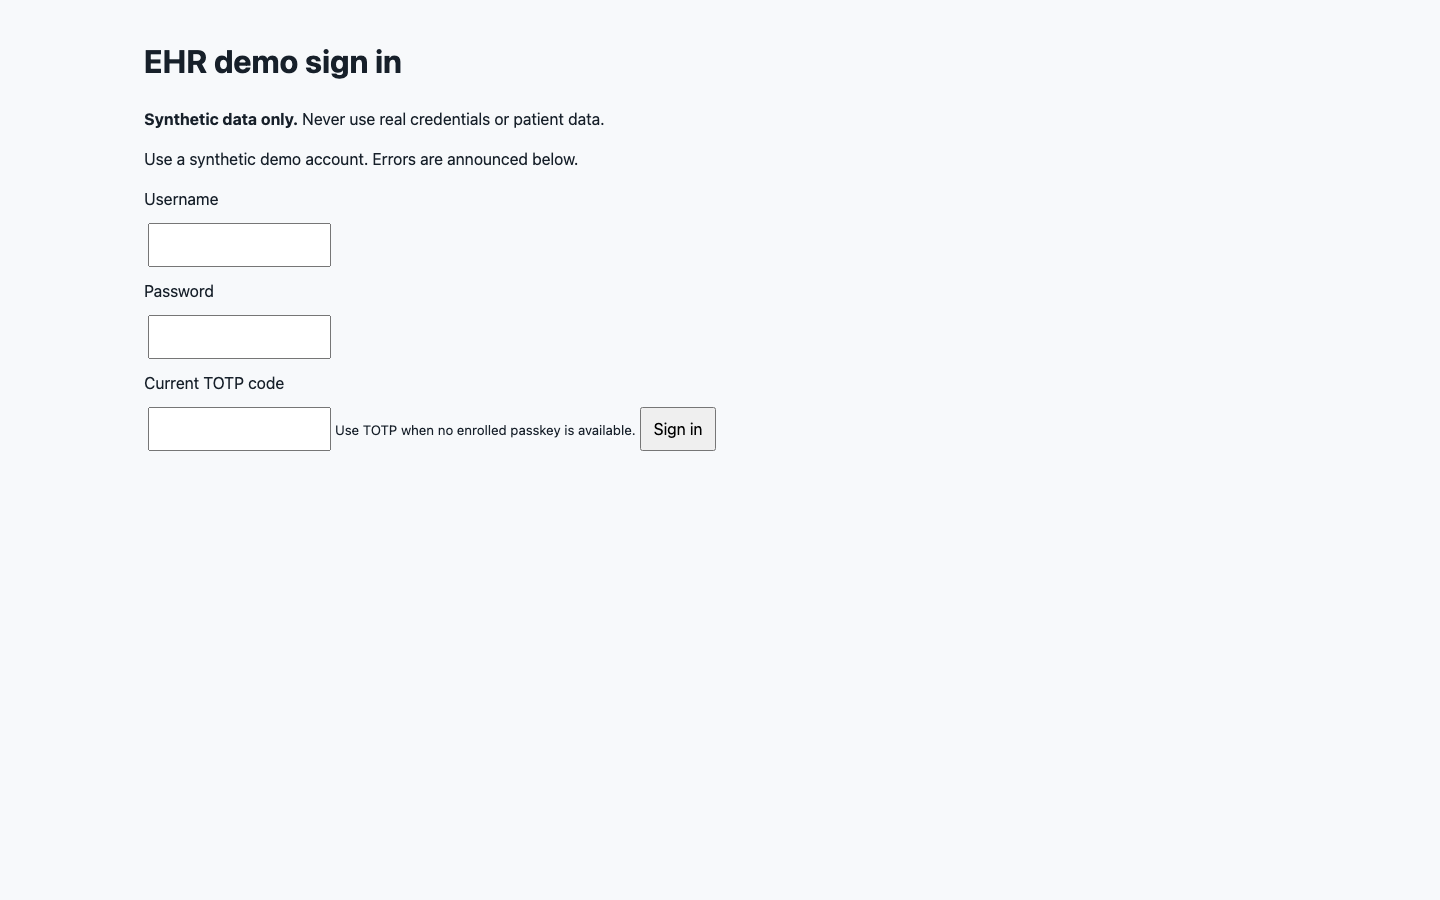
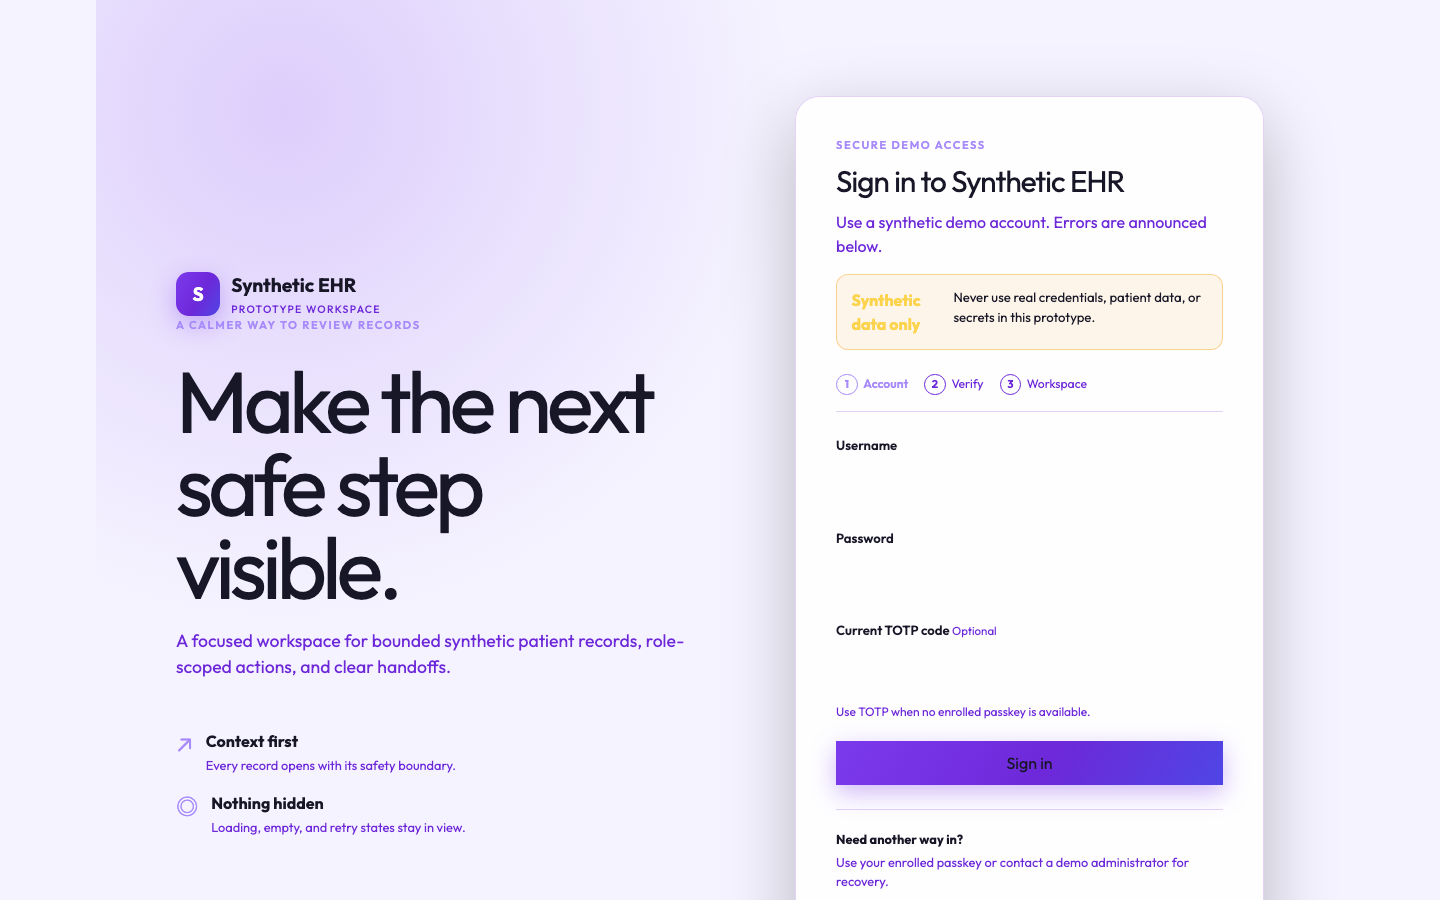
docs: refresh Tailwind UI screenshots

diff --git a/src/ticket06.test.tsx b/src/ticket06.test.tsx
@@ -1,0 +1,101 @@
+// @vitest-environment jsdom
+// type-10042026-Maurice: Ticket06 regression and evidence contracts.
+import { readFileSync } from "node:fs";
+import { resolve } from "node:path";
+import { describe, expect, it } from "vitest";
+import { renderToStaticMarkup } from "react-dom/server";
+import axe from "axe-core";
+import { AppShell, CategoryBarChart, TrendChart } from "./ui";
+import { AdminWorkspace, DeveloperWorkspace } from "./main";
+
+const root = process.cwd();
+const read = (file: string) => readFileSync(resolve(root, file), "utf8");
+const pngSize = (file: string) => {
+  const bytes = readFileSync(resolve(root, file));
+  return { width: bytes.readUInt32BE(16), height: bytes.readUInt32BE(20) };
+};
+const shell = (role: "patient" | "clinician" | "admin" | "developer", route = "/") =>
+  renderToStaticMarkup(<AppShell role={role} username="demo" route={route} onNavigate={() => undefined}><p>Demo workspace</p></AppShell>);
+
+describe("Ticket06 — existing flows, evidence, Compose and static serving", () => {
+  it("test_TC_UI_0046_concurrency_and_rollback_regression", () => {
+    const html = shell("clinician");
+    expect(html).toContain("Synthetic data only");
+    expect(html).toContain('id="main-content"');
+    expect(read("src/workflow.ts")).toContain("roleWorkspacePath");
+  });
+
+  it("test_TC_UI_0047_role_flow_loading_and_error_coverage", async () => {
+    const html = shell("admin", "/admin");
+    expect(html).toContain('aria-label="Workspace navigation"');
+    expect(read("src/main.tsx")).toContain("Loading patient records");
+    expect(read("src/main.tsx")).toContain("Unable to load");
+    for (const role of ["patient", "clinician", "admin", "developer"] as const) {
+      document.body.innerHTML = shell(role);
+      const result = await axe.run(document.body);
+      expect(result.violations.filter((item) => ["serious", "critical"].includes(item.impact ?? ""))).toEqual([]);
+    }
+  });
+
+  it("test_TC_UI_0048_api_retry_does_not_duplicate_rows", () => {
+    const html = renderToStaticMarkup(<AdminWorkspace users={[]} audit={[]} jobs={[]} rules={[]} severityFloor="LOW" error="" onRetry={() => undefined} onCancelJob={() => undefined} onUpdateUser={() => undefined} onCreateUser={() => undefined} />);
+    expect(html.match(/No users loaded\./g)).toHaveLength(1);
+    expect(html.match(/No audit events loaded\./g)).toHaveLength(1);
+    expect(html).toContain('data-ticket="TC-UI-0039 TC-UI-0040 TC-UI-0042 TC-UI-0043 TC-UI-0044 TC-UI-0045"');
+  });
+
+  it("test_TC_UI_0049_theme_does_not_persist_across_reload", () => {
+    const html = shell("patient");
+    expect(html).not.toContain("localStorage");
+    expect(html).not.toContain("sessionStorage");
+    expect(read("src/ui.tsx")).toContain('useState<"dark" | "light">("dark")');
+  });
+
+  it("test_TC_UI_0050_responsive_forms_retain_correction", () => {
+    const styles = read("src/styles.css");
+    expect(styles).toContain("grid-template-columns");
+    expect(styles).toContain("@media (max-width: 42rem)");
+    expect(read("src/main.tsx")).toContain("onChange={(event)");
+  });
+
+  it("test_TC_UI_0051_chart_table_survives_svg_failure", () => {
+    const html = renderToStaticMarkup(<><TrendChart title="Synthetic trend" points={[{ label: "Jan", value: 2 }]} /><CategoryBarChart title="Synthetic categories" items={[{ label: "Open", value: 1 }]} /></>);
+    expect(html).toContain("<table>");
+    expect(html).toContain("Synthetic trend data");
+    expect(html).toContain("Synthetic categories data");
+  });
+
+  it("test_TC_UI_0052_permission_denied_preserves_route", () => {
+    const html = shell("patient", "/admin");
+    expect(html).toContain('aria-current="page"');
+    expect(html).toContain("Workspace");
+    expect(read("src/main.tsx")).toContain("You are not authorized to open the administrator workspace");
+  });
+
+  it("test_TC_UI_0053_screenshot_gallery_has_viewport_metadata", () => {
+    const readme = read("README.md");
+    expect(readme).toContain("1440x900");
+    expect(readme).toContain("390x844");
+    expect(readme).toContain("Synthetic/non-clinical prototype");
+    const links = [...readme.matchAll(/\]\((docs\/screenshots\/[^)]+\.png)\)/g)].map((match) => match[1]);
+    expect(links.length).toBeGreaterThanOrEqual(6);
+    for (const link of links) expect(pngSize(link)).toMatchObject({ width: expect.any(Number), height: expect.any(Number) });
+    expect(pngSize("docs/screenshots/login-mfa-mobile.png")).toEqual({ width: 390, height: 844 });
+    expect(pngSize("docs/screenshots/login-mfa-tablet.png")).toEqual({ width: 1024, height: 768 });
+  });
+
+  it("test_TC_UI_0054_compose_readiness_safe_failure", () => {
+    const compose = read("docker-compose.yml");
+    expect(compose).toContain("healthcheck:");
+    expect(compose).toContain("depends_on:");
+    expect(read("backend/tests/test_ticket17_compose.py")).toContain("TimeoutError");
+  });
+
+  it("test_TC_UI_0055_rollback_leaves_api_data_unchanged", () => {
+    const html = renderToStaticMarkup(<DeveloperWorkspace />);
+    expect(html).toContain("memory-only");
+    expect(html).not.toContain("localStorage");
+    expect(html).not.toContain("sessionStorage");
+    expect(read("src/records.ts")).toContain("throw new Error");
+  });
+});

diff --git a/README.md b/README.md
@@ -38,15 +38,20 @@ clinical validation. See `docs/accessibility-conformance-note.md` and
 These images show the current local demo using synthetic demonstration data only. They are
 illustrative UI captures, not clinical validation or evidence of production readiness.
 
-| Screen | Workflow shown |
-| --- | --- |
-| [![Synthetic MFA sign-in screen](docs/screenshots/login-mfa.png)](docs/screenshots/login-mfa.png) | Synthetic account sign-in with the mandatory TOTP field and non-clinical safety notice. |
-| [![Clinician medication order workspace](docs/screenshots/clinician-medication-safety.png)](docs/screenshots/clinician-medication-safety.png) | Clinician record workspace at the medication-order workflow, with the synthetic-data boundary visible. |
-| [![Administrator audit workspace](docs/screenshots/administrator-audit-jobs.png)](docs/screenshots/administrator-audit-jobs.png) | Administrator quality and append-only audit view; sensitive-looking values are masked in this documentation capture. |
-| [![Developer SMART and FHIR workspace](docs/screenshots/developer-smart-fhir.png)](docs/screenshots/developer-smart-fhir.png) | Developer SMART/FHIR workspace with synthetic-data and browser-storage boundaries. |
+| Screen | Viewport | Workflow shown |
+| --- | --- | --- |
+| [![Synthetic MFA sign-in screen](docs/screenshots/login-mfa.png)](docs/screenshots/login-mfa.png) | 1440x900 | Synthetic account sign-in with the mandatory TOTP field and non-clinical safety notice. |
+| [![Synthetic MFA sign-in screen on tablet](docs/screenshots/login-mfa-tablet.png)](docs/screenshots/login-mfa-tablet.png) | 1024x768 | Current-source responsive sign-in capture at tablet width. |
+| [![Synthetic MFA sign-in screen on mobile](docs/screenshots/login-mfa-mobile.png)](docs/screenshots/login-mfa-mobile.png) | 390x844 | Current-source responsive sign-in capture at mobile width. |
+| [![Clinician medication order workspace](docs/screenshots/clinician-medication-safety.png)](docs/screenshots/clinician-medication-safety.png) | 1440x900 | Clinician record workspace at the medication-order workflow, with the synthetic-data boundary visible. |
+| [![Administrator audit workspace](docs/screenshots/administrator-audit-jobs.png)](docs/screenshots/administrator-audit-jobs.png) | 1440x900 | Administrator quality and append-only audit view; sensitive-looking values are masked in this documentation capture. |
+| [![Developer SMART and FHIR workspace](docs/screenshots/developer-smart-fhir.png)](docs/screenshots/developer-smart-fhir.png) | 1440x900 | Developer SMART/FHIR workspace with synthetic-data and browser-storage boundaries. |
 
 The patient questionnaire/record capture was omitted because the seeded patient workspace did
-not load reliably in the current demo run. No screenshot is presented for that state.
+not load reliably in the current demo run. Tablet (1024x768), mobile (390x844), and patient
+workspace captures were omitted rather than fabricated because an isolated backend/database was
+not available for this verification run. The responsive sign-in captures were taken from the
+current source Vite server; role workspaces require the unavailable backend.
 
 ## One-command local HTTPS platform (Ticket01)
 

diff --git a/docs/changelogs/CHANGELOG-2026-10-04-Maurice.md b/docs/changelogs/CHANGELOG-2026-10-04-Maurice.md
@@ -26,4 +26,10 @@
 - Added explicit severity text/icons, critical-action treatment, emergency break-glass direction, mobile-safe forms/tables, and directional empty/error states.
 - Added RED-first coverage for TC-UI-0028..0036 in `src/ticket04.test.tsx` and mapped every Ticket04 CSV row to its test reference.
 
+## Ticket 06 — Existing flows, evidence, Compose and static serving
+
+- Added ten executable regression/evidence tests for TC-UI-0046..0055 in `src/ticket06.test.tsx` and mapped each CSV row after the tests passed.
+- Refreshed the README screenshot gallery with viewport metadata and current-source responsive sign-in captures at 1440x900, 1024x768, and 390x844; authenticated role captures remain explicitly omitted without a disposable backend.
+- Recorded automated frontend, axe, static Compose, build, lint, and evidence results without claiming formal accessibility conformance or clinical validation.
+
 Author Name: Aguda, Maurice

diff --git a/docs/accessibility-conformance-note.md b/docs/accessibility-conformance-note.md
@@ -9,6 +9,13 @@ conformance, certification, clinical validation, or suitability for real patient
 developer, loading/error/empty, and responsive/reduced-motion markers with pinned
 `axe-core@4.10.2`. Serious and critical axe violations fail; no axe rule is disabled.
 
+Ticket06 regression coverage is in `src/ticket06.test.tsx` (10 tests). The full frontend run
+completed with 15 files and 74 tests passing, including the existing serious/critical axe checks;
+`npm run lint`, `npm run build`, `npm run validate:evidence`, and the static Compose contract also
+passed. The browser smoke used the current-source Vite server for the login page at 1440x900,
+1024x768, and 390x844. No authenticated role-workspace browser capture was claimed because no
+disposable PostgreSQL/Redis/Django runtime was available.
+
 ## Manual checklist
 
 Browser automation was unavailable in this environment, so these checks are explicitly
